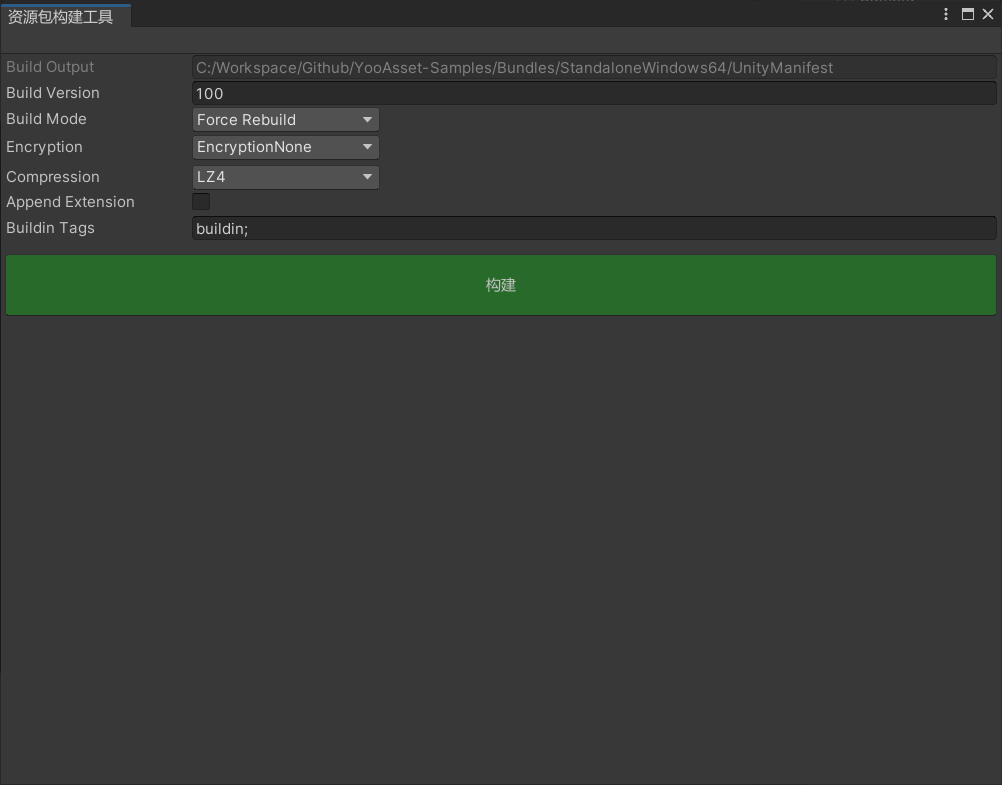
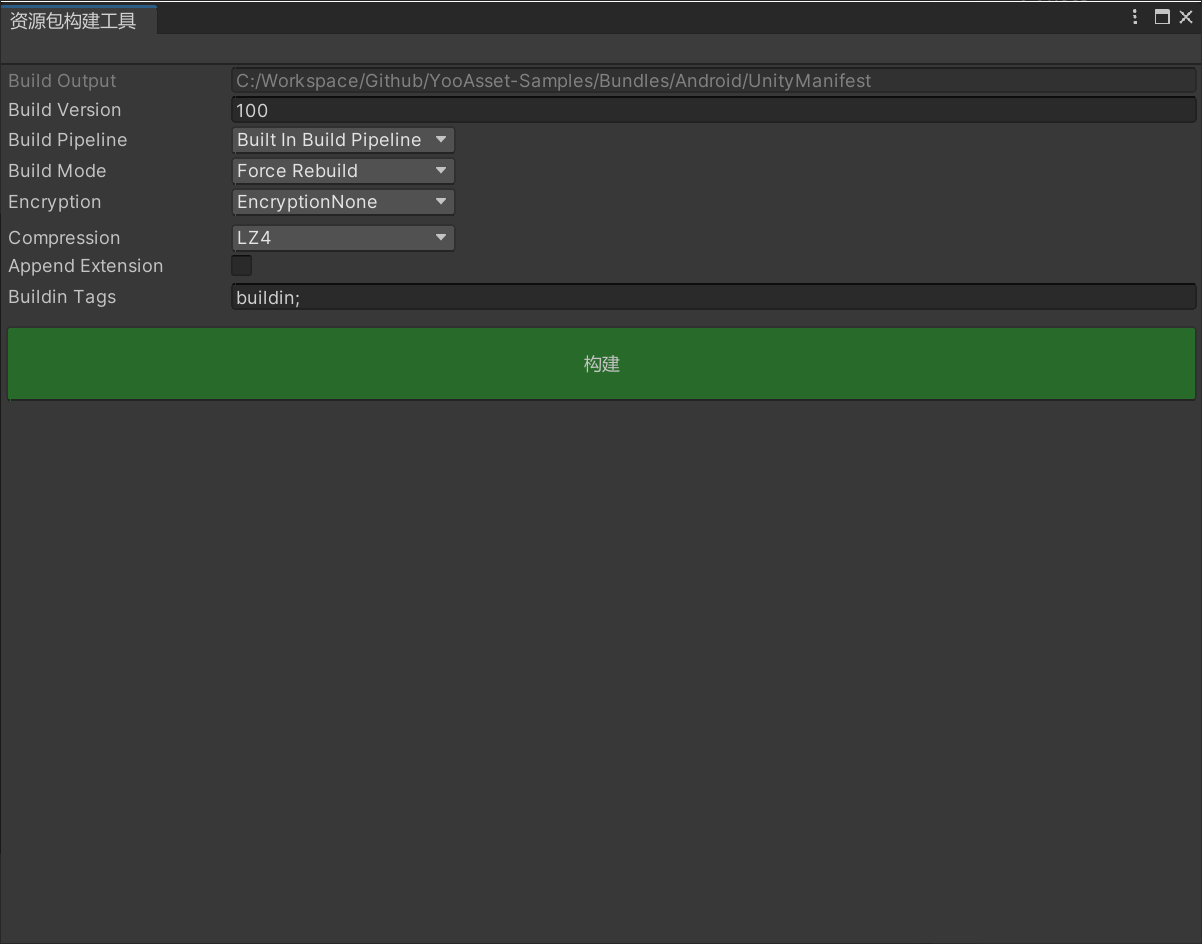
Update Update document

Changed region(s): [[0.0, 0.0611, 1.0, 0.428], [0.0, 0.0, 0.1238, 0.0306], [0.9281, 0.0, 1.0, 0.0306]]

diff --git a/Docs/AssetBuilder.md b/Docs/AssetBuilder.md
@@ -12,6 +12,14 @@
 
   构建版本号，也是资源版本号，版本号必须大于零。
 
+- **Build Pipeline**
+
+  构建管线
+
+  (1) BuiltinBuildPipeline: 传统的内置构建管线。
+
+  (2) ScriptableBuildPipeline: 可编程构建管线。
+
 - **Build Mode**
 
   构建模式
